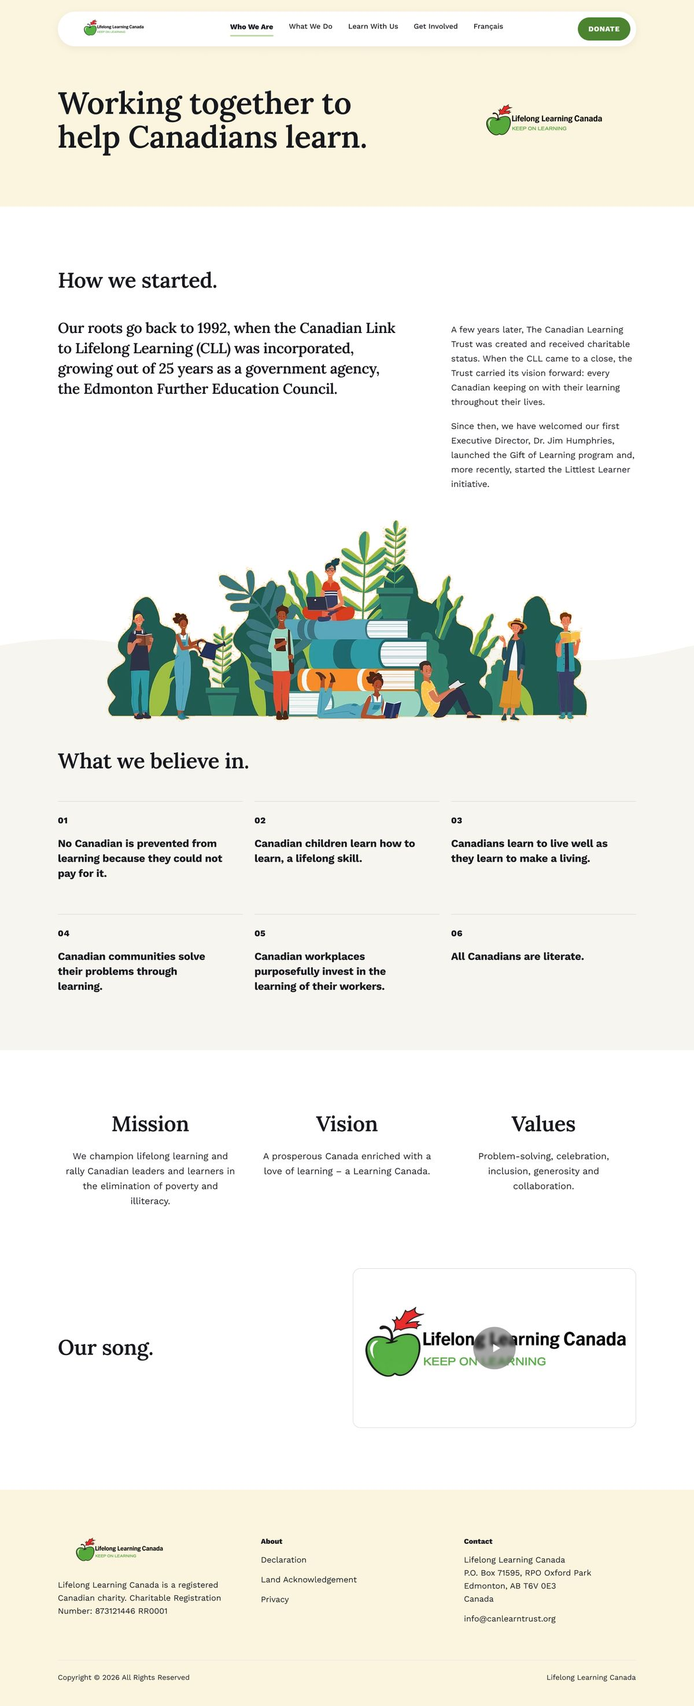
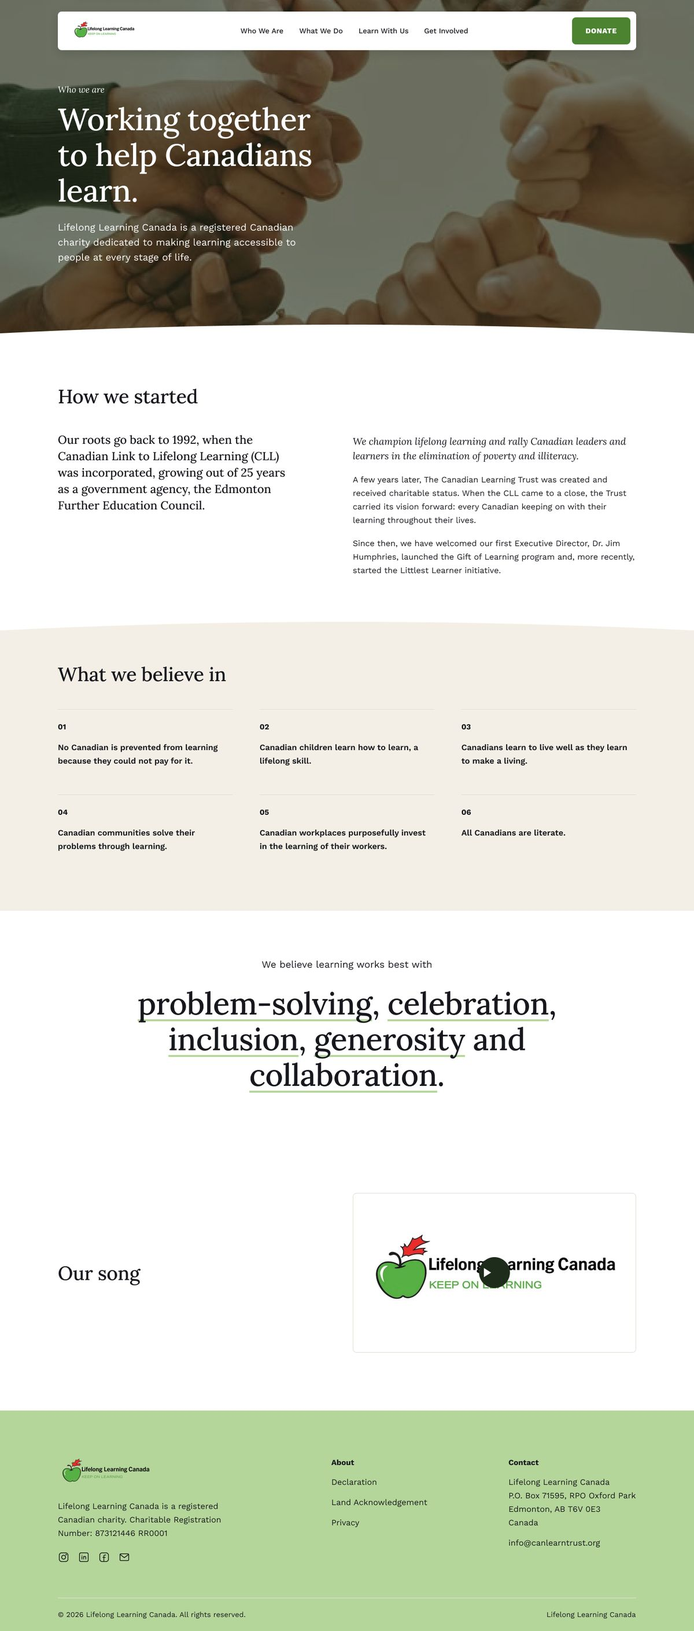
Lifelong and Scenté: new pages, sitemap, flows and phone covers
Lifelong Learning: all seven pages from the current Figma (Donate, Gift of
Learning, Board & Staff, email), personas, sitemap, user flows, empty state,
new colours, feedback and validation. Scenté: product page, personas,
moodboard, sitemap and user flows. New iPhone covers for both cards.

Claude-Session: https://claude.ai/code/session_01KAYDTWEdfNKoZqiUryzZVw

diff --git a/projects/lifelong-learning.html b/projects/lifelong-learning.html
@@ -405,20 +405,24 @@
     <section class="ll-hero">
       <div class="ll-hero__left">
         <h1 class="ll-hero__title">Lifelong Learning Canada</h1>
-        <p class="ll-hero__desc">I volunteer with Lifelong Learning Canada, a small Canadian charity, and redesigned their website: the homepage, the About Us page and the Resource Hub.</p>
+        <p class="ll-hero__desc">Lifelong Learning Canada is a nonprofit that helps people fund any kind of learning they need, at any level and at any stage of life. I volunteer with them, and I am redesigning the whole website and building it in WordPress with Elementor.</p>
       </div>
       <div class="ll-hero__right">
         <div class="ll-meta-group">
-          <span class="ll-meta-label">Project Scope</span>
-          <span class="ll-meta-val">UI/UX Design · Web Design · Design System</span>
+          <span class="ll-meta-label">Role</span>
+          <span class="ll-meta-val">Volunteer Web Designer &amp; Developer</span>
         </div>
         <div class="ll-meta-group">
-          <span class="ll-meta-label">Skills</span>
-          <span class="ll-meta-val">Figma · Design Systems · Web Design</span>
+          <span class="ll-meta-label">Timeline</span>
+          <span class="ll-meta-val">Aug 2026 to present</span>
         </div>
         <div class="ll-meta-group">
           <span class="ll-meta-label">Pages</span>
-          <span class="ll-meta-val">Landing · About Us · Resource Hub</span>
+          <span class="ll-meta-val">Landing · Donate · About Us · Gift of Learning · Resource Hub · Board &amp; Staff · Thank you email</span>
+        </div>
+        <div class="ll-meta-group">
+          <span class="ll-meta-label">Tools</span>
+          <span class="ll-meta-val">Figma · WordPress · Elementor · Claude · ChatGPT</span>
         </div>
         <a href="https://www.figma.com/design/nwnEfswx4xMTpzGlQBsQtA/Lifelong-Learning-Canada" target="_blank" class="ll-btn">View Figma File</a>
       </div>
@@ -427,12 +431,12 @@
     <!-- ─── Intro split ─── -->
     <div class="ll-goal-split">
       <div class="ll-goal-split__visual">
-        <img src="lifelong-hero-after.png" alt="Lifelong Learning Canada redesigned homepage" />
+        <img src="lifelong-hero-new.jpg" alt="Lifelong Learning Canada redesigned homepage" />
       </div>
       <div class="ll-goal-split__text">
         <span class="ll-goal-split__label">The Challenge</span>
-        <h2 class="ll-goal-split__heading">Give a small charity a website that actually feels like learning.</h2>
-        <p class="ll-goal-split__body">The old site didn't have a real visual identity, and nothing on it looked like education. I wanted someone landing on the homepage to understand in a few seconds what the organization does and why it matters.</p>
+        <h2 class="ll-goal-split__heading">Give a small charity a website that people understand and trust.</h2>
+        <p class="ll-goal-split__body">All the content was already on lifelonglearn.ca, but it was hard to follow. My task was to reorganize that information, using only what the site already had, and to make it clear what Lifelong Learning Canada does and how they help people.</p>
       </div>
     </div>
 
@@ -441,30 +445,48 @@
       <div class="pf-wrap">
         <h2 class="project-section-title pf-title">The Context</h2>
         <div class="pf-lead">
-          <p>Lifelong Learning Canada has been around since 1992, but it's a small organization and that shows. There were almost no photos I could use, very little data about their impact, and no visual identity to build on. Even the logo, an apple, doesn't say much about education on its own.</p>
-          <p>So a lot of my work was figuring out how to make the site feel like learning without making anything up. That's where the illustrations came in: people of different ages reading and studying together, which says more than the apple ever could.</p>
-          <p>I also changed how the site talks. Instead of opening with "registered charity" or "we help pay for your education", the text starts from what they believe: learning belongs to everyone, at every age.</p>
+          <p>Lifelong Learning Canada has been around since 1992, but it's a small organization and that shows. They had few photos of their activities and almost no numbers, like how many people they helped. That was hard, because photos and data are what create a connection with the person on the other side, even to make a donation.</p>
+          <p>The logo is an apple in a strong green, and too much green can feel more like nature than learning. So a lot of my work was making the site feel like learning, without making anything up.</p>
         </div>
       </div>
     </section>
 
-    <!-- ─── What I changed ─── -->
+    <!-- ─── Who it's for ─── -->
     <section class="pf-section">
       <div class="pf-wrap">
-        <h2 class="project-section-title pf-title">What I Changed</h2>
+        <h2 class="project-section-title pf-title">Who It's For</h2>
+        <div class="pf-lead"><p>I created two personas, based on the two main reasons people visit the website. They helped me decide what each page needed to say, and what each person should see first.</p></div>
         <div class="pf-cards">
           <div class="pf-card">
-            <span class="pf-card__label">Illustration instead of photos</span>
-            <p class="pf-card__body">Without good photos to work with, I used illustrations of people learning at different ages. They gave the site the education feeling the logo couldn't.</p>
+            <span class="pf-card__label">Maria, the learner</span>
+            <p class="pf-card__body">“I know what I want to study. I just don’t know how I’d pay for the books and fees.” She needs to see who Gift of Learning is for, the next step in plain language, and stories of people like her.</p>
           </div>
           <div class="pf-card">
-            <span class="pf-card__label">Real people, not numbers</span>
-            <p class="pf-card__body">There wasn't much data to show, so I put real learners up front, like Cybell, who moved across the country to study Marine Engineering.</p>
+            <span class="pf-card__label">David, the donor</span>
+            <p class="pf-card__body">“Show me it’s a real charity and that the money reaches someone. Then I’ll give.” He needs the charity number, the campaign progress and real learner stories before he gives.</p>
           </div>
-          <div class="pf-card">
-            <span class="pf-card__label">Warm and simple</span>
-            <p class="pf-card__body">I tried a lot of palettes and font pairs before landing on butter yellow and soft grey, with Lora and Work Sans. Black text, one green for buttons, almost no decoration.</p>
-          </div>
+        </div>
+      </div>
+    </section>
+
+    <!-- ─── Sitemap ─── -->
+    <section class="pf-section">
+      <div class="pf-wrap">
+        <h2 class="project-section-title pf-title">Sitemap</h2>
+        <div class="pf-lead"><p>I mapped every page before designing any screen. I kept the four menus from the live site, so people who already use it still find everything. The Donate page is new: before, the button went straight to Zeffy.</p></div>
+        <div class="pf-stage pf-stage--pad" style="--stage:#f4efe6">
+          <div class="pf-browser"><div class="pf-browser__view"><img class="pf-zoom" src="lifelong-sitemap.png" alt="Sitemap of the Lifelong Learning Canada website" loading="lazy" /></div></div>
+        </div>
+      </div>
+    </section>
+
+    <!-- ─── User flows ─── -->
+    <section class="pf-section">
+      <div class="pf-wrap">
+        <h2 class="project-section-title pf-title">User Flows</h2>
+        <div class="pf-lead"><p>For a charity, the “purchase” is a donation or a request for support. I mapped each step Maria and David take, where they could give up, and the design answer for each risk.</p></div>
+        <div class="pf-stage pf-stage--pad" style="--stage:#ececec">
+          <div class="pf-browser"><div class="pf-browser__view"><img class="pf-zoom" src="lifelong-flows.png" alt="User flows for Maria, the learner, and David, the donor" loading="lazy" /></div></div>
         </div>
       </div>
     </section>
@@ -473,7 +495,7 @@
     <section class="pf-section">
       <div class="pf-wrap">
         <h2 class="project-section-title pf-title">Wireframes</h2>
-        <div class="pf-lead"><p>Before adding color and images, I laid out each page in grey to get the order of the content right: what someone needs to see first, and where each page leads next.</p></div>
+        <div class="pf-lead"><p>Before any colour or photo, I planned the pages in grey, using the real content from the site, to get the order right: what someone needs to see first, and where each page leads next.</p></div>
         <div class="pf-stage pf-stage--pad" style="--stage:#ececec">
           <div class="pf-grid3">
             <div class="pf-browser"><div class="pf-browser__bar"><span class="pf-browser__dot"></span><span class="pf-browser__dot"></span><span class="pf-browser__dot"></span></div><div class="pf-browser__view pf-browser__view--crop"><img class="pf-zoom" src="lifelong-wire-home.jpg" alt="Wireframe of the homepage" loading="lazy" /></div></div>
@@ -488,19 +510,31 @@
     <section class="pf-section">
       <div class="pf-wrap">
         <h2 class="project-section-title pf-title">The Pages</h2>
-        <div class="pf-lead"><p>The homepage, the About Us page and the Resource Hub, where people can search learning programs across Canada. Scroll inside the window to see each page.</p></div>
-        <div class="pf-stage" style="--stage:#f6efd9">
+        <div class="pf-lead">
+          <p>The landing page now explains who Lifelong Learning Canada is, what they do and how they help, before asking anyone to donate. The new Donate page shows the campaign progress, a real learner story and answers about tax receipts. Gift of Learning is written for Maria, and the Resource Hub turns a long list of programs into a search with filters.</p>
+          <p>Scroll inside the window to see each page.</p>
+        </div>
+        <div class="pf-stage" style="--stage:#f4efe6">
           <div class="pf-browser" data-tabs>
             <div class="pf-browser__bar">
               <span class="pf-browser__dot"></span><span class="pf-browser__dot"></span><span class="pf-browser__dot"></span>
               <div class="pf-browser__tabs" role="tablist">
-                <button class="pf-browser__tab is-active" data-src="lifelong-page-home.jpg" data-alt="Lifelong Learning Canada homepage">Home</button>
-                <button class="pf-browser__tab" data-src="lifelong-page-about.jpg" data-alt="Lifelong Learning Canada About Us page">About Us</button>
-                <button class="pf-browser__tab" data-src="lifelong-page-hub.jpg" data-alt="Lifelong Learning Canada Resource Hub">Resource Hub</button>
+                <button class="pf-browser__tab is-active" data-src="lifelong-page-home.jpg" data-alt="Lifelong Learning Canada homepage">Home</button><button class="pf-browser__tab" data-src="lifelong-page-donate.jpg" data-alt="Donate page">Donate</button><button class="pf-browser__tab" data-src="lifelong-page-about.jpg" data-alt="About Us page">About Us</button><button class="pf-browser__tab" data-src="lifelong-page-gift.jpg" data-alt="Gift of Learning page">Gift of Learning</button><button class="pf-browser__tab" data-src="lifelong-page-hub.jpg" data-alt="Resource Hub with the province filter open">Resource Hub</button><button class="pf-browser__tab" data-src="lifelong-page-board.jpg" data-alt="Board and Staff page">Board &amp; Staff</button>
               </div>
             </div>
             <div class="pf-browser__view pf-browser__view--scroll"><img src="lifelong-page-home.jpg" alt="Lifelong Learning Canada homepage" /></div>
           </div>
+        </div>
+      </div>
+    </section>
+
+    <!-- ─── Empty state ─── -->
+    <section class="pf-section">
+      <div class="pf-wrap">
+        <h2 class="project-section-title pf-title">When Nothing Matches</h2>
+        <div class="pf-lead"><p>Filters can return zero results. Instead of an empty table, the page says what happened and gives one way out: clear the filters. Photos show real people. Illustrations are for tools and moments like this one.</p></div>
+        <div class="pf-stage pf-stage--pad" style="--stage:#ececec">
+          <div class="pf-browser"><div class="pf-browser__view"><img class="pf-zoom" src="lifelong-empty-state.jpg" alt="Resource Hub with 0 resources found" loading="lazy" /></div></div>
         </div>
       </div>
     </section>
@@ -520,13 +554,56 @@
       </div>
     </section>
 
+    <!-- ─── Thank you email ─── -->
+    <section class="pf-section">
+      <div class="pf-wrap">
+        <h2 class="project-section-title pf-title">After the Donation</h2>
+        <div class="pf-lead"><p>After giving on Zeffy, the donor gets a thank you email. It came from one question: how can people who donate feel closer to the organization? The email confirms the tax receipt, shares real learner stories and shows other ways to help.</p></div>
+        <div class="pf-stage pf-stage--pad" style="--stage:#f4efe6">
+          <div class="pf-browser" style="max-width:600px;margin:0 auto"><div class="pf-browser__view pf-browser__view--scroll"><img src="lifelong-page-email.jpg" alt="Thank you email" /></div></div>
+        </div>
+      </div>
+    </section>
+
     <!-- ─── Design system ─── -->
     <section class="pf-section">
       <div class="pf-wrap">
         <h2 class="project-section-title pf-title">The Design System</h2>
-        <div class="pf-lead"><p>Colors, text styles, buttons, the header, the footer, cards and filters are all saved in Figma. If I change one, it changes on every page, desktop and mobile.</p></div>
-        <div class="pf-stage pf-stage--pad" style="--stage:#f6efd9">
-          <div class="pf-browser"><div class="pf-browser__view"><img class="pf-zoom" src="lifelong-design-system.png" alt="Lifelong Learning Canada design system: colors, typography and components" /></div></div>
+        <div class="pf-lead"><p>The site had many pages, but nothing kept them consistent. Colours, text styles, buttons, the header, the footer, cards and filters are all saved in Figma. A warm oat colour balances the green: the light logo green is only a background, and the strong green is only for Donate.</p></div>
+        <div class="pf-stage pf-stage--pad" style="--stage:#f4efe6">
+          <div class="pf-browser"><div class="pf-browser__view"><img class="pf-zoom" src="lifelong-colors.png" alt="Lifelong Learning Canada colour tokens" loading="lazy" /></div></div>
+        </div>
+      </div>
+    </section>
+
+    <!-- ─── Feedback ─── -->
+    <section class="pf-section">
+      <div class="pf-wrap">
+        <h2 class="project-section-title pf-title">Feedback</h2>
+        <div class="pf-cards">
+          <div class="pf-card">
+            <span class="pf-card__label">From the team</span>
+            <p class="pf-card__body">“The Gift of Learning page… that one was a disaster.” Early on, the team found it hard to read. I redesigned it with strong contrast, real learner photos and stories, and clear copy.</p>
+          </div>
+          <div class="pf-card">
+            <span class="pf-card__label">From a senior designer</span>
+            <p class="pf-card__body">“The site tells the story well, but it doesn’t connect that story to donating.” Now a real learner story sits next to the campaign progress and the donate button.</p>
+          </div>
+          <div class="pf-card">
+            <span class="pf-card__label">Colours and consistency</span>
+            <p class="pf-card__body">Some pages felt like a different site. I simplified the greens and gave every page the same kind of hero.</p>
+          </div>
+        </div>
+      </div>
+    </section>
+
+    <!-- ─── Validation ─── -->
+    <section class="pf-section">
+      <div class="pf-wrap">
+        <h2 class="project-section-title pf-title">How I Validate It</h2>
+        <div class="pf-lead">
+          <p><strong>Done:</strong> the Lifelong Learning Canada team reviewed each page, and a senior designer reviewed the site. Each step of Maria’s and David’s path has a risk and a design answer.</p>
+          <p><strong>Next:</strong> a short test with five people using the prototype: make a donation, find a program in Alberta, and check if the donation gives a tax receipt. After launch, I want to track how many people click Donate and finish on Zeffy, how many Hub searches return no results, and clicks in the thank you email.</p>
         </div>
       </div>
     </section>
@@ -556,7 +633,7 @@
     <section class="pf-final">
       <div class="pf-wrap">
         <h2 class="project-section-title pf-title">See the Full Design</h2>
-        <p>All the pages, the mobile versions, the wireframes and the design system are in Figma.</p>
+        <p>All the pages, the mobile versions, the sitemap, the user flows, the wireframes and the design system are in Figma.</p>
         <div class="pf-btns"><a href="https://www.figma.com/design/nwnEfswx4xMTpzGlQBsQtA/Lifelong-Learning-Canada" target="_blank" class="pf-btn">View Figma File</a></div>
       </div>
     </section>

diff --git a/projects/scente.html b/projects/scente.html
@@ -420,7 +420,7 @@
         </div>
         <div class="sc-meta-group">
           <span class="sc-meta-label">Pages</span>
-          <span class="sc-meta-val">Home · About · Shop · Contact · Cart</span>
+          <span class="sc-meta-val">Home · About · Shop · Product · Contact · Cart</span>
         </div>
         <a href="https://www.figma.com/design/tzMHCASsXgZLubw8n10tKq/Scent%C3%A9" target="_blank" class="sc-btn">View Figma File</a>
       </div>
@@ -445,7 +445,50 @@
         <div class="pf-lead">
           <p>Scenté isn't a real company. I invented it so I could design a store from the brand up, without anyone telling me what it should look like. The idea was two friends who started making candles together, and that became the About page.</p>
           <p>Since the first collection is for autumn, the colors came from the season: deep brown, warm cream, a rusty red for the headings and a soft butter yellow for the buttons. For the type I mixed an elegant serif with a monospace, so it feels a little handmade, like a label on a jar.</p>
-          <p>My first version was a single landing page I coded myself. Later I came back to it and designed the rest of the store: About, Shop, Contact and Cart, on desktop and mobile.</p>
+          <p>My first version was a single landing page I coded myself. Later I came back to it and designed the rest of the store: About, Shop, the product page, Contact and Cart, on desktop and mobile.</p>
+        </div>
+      </div>
+    </section>
+
+    <!-- ─── Who it's for ─── -->
+    <section class="pf-section">
+      <div class="pf-wrap">
+        <h2 class="project-section-title pf-title">Who It's For</h2>
+        <div class="pf-lead"><p>I created two personas, based on the two main reasons people buy candles. Both have the same problem: you can’t smell a candle through a screen.</p></div>
+        <div class="pf-cards">
+          <div class="pf-card">
+            <span class="pf-card__label">Chloé, the gift giver</span>
+            <p class="pf-card__body">“I want a gift that feels thoughtful, but I can’t smell it through the screen.” She needs scents named after real ingredients, clear prices and delivery times before checkout.</p>
+          </div>
+          <div class="pf-card">
+            <span class="pf-card__label">Priya, the evening ritual</span>
+            <p class="pf-card__body">“After a long shift I light a candle to switch off. I want to know what I’m breathing in.” She needs ingredients in plain words, care tips and the story of who makes the candles.</p>
+          </div>
+        </div>
+      </div>
+    </section>
+
+    <!-- ─── Moodboard ─── -->
+    <section class="pf-section">
+      <div class="pf-wrap">
+        <h2 class="project-section-title pf-title">Moodboard and Identity</h2>
+        <div class="pf-lead"><p>Before designing, I collected references to find the mood of the brand: autumn light, real ingredients and amber glass. The palette, the photos and the type of the store all came from this board.</p></div>
+        <div class="pf-stage pf-stage--pad" style="--stage:#f3e6cf">
+          <div class="pf-browser"><div class="pf-browser__view"><img class="pf-zoom" src="scente-moodboard.jpg" alt="Scenté moodboard, palette and type" loading="lazy" /></div></div>
+        </div>
+      </div>
+    </section>
+
+    <!-- ─── Sitemap and flows ─── -->
+    <section class="pf-section">
+      <div class="pf-wrap">
+        <h2 class="project-section-title pf-title">Sitemap and User Flows</h2>
+        <div class="pf-lead"><p>The product page is new: it's where people decide to buy. Chloé decides by the scent notes and checks delivery times in the cart. Priya reads the ingredients on the product page and confirms them in the FAQ.</p></div>
+        <div class="pf-stage pf-stage--pad" style="--stage:#ece3d3">
+          <div class="pf-grid2" style="display:grid;gap:24px">
+            <div class="pf-browser"><div class="pf-browser__view"><img class="pf-zoom" src="scente-sitemap.png" alt="Scenté sitemap" loading="lazy" /></div></div>
+            <div class="pf-browser"><div class="pf-browser__view"><img class="pf-zoom" src="scente-flows.png" alt="Scenté user flows for Chloé and Priya" loading="lazy" /></div></div>
+          </div>
         </div>
       </div>
     </section>
@@ -464,7 +507,7 @@
             <p class="pf-card__body">Removing an item shows a small Undo, the order summary stays in view, and shipping and returns info sit right under the checkout button.</p>
           </div>
           <div class="pf-card">
-            <span class="pf-card__label">One store, five pages</span>
+            <span class="pf-card__label">One store, six pages</span>
             <p class="pf-card__body">The same header, footer, buttons and spacing on every page, so going from Home to Cart feels like the same place.</p>
           </div>
         </div>
@@ -490,7 +533,7 @@
     <section class="pf-section">
       <div class="pf-wrap">
         <h2 class="project-section-title pf-title">The Store</h2>
-        <div class="pf-lead"><p>Five pages, from the autumn collection on the home page to the cart. Scroll inside the window to see each page.</p></div>
+        <div class="pf-lead"><p>Six pages, from the autumn collection on the home page to the cart. On the product page, big photos show the candle next to its ingredients, and the price, Add to cart and Buy now are all at the top. Scroll inside the window to see each page.</p></div>
         <div class="pf-stage" style="--stage:#f3e6cf">
           <div class="pf-browser" data-tabs>
             <div class="pf-browser__bar">
@@ -499,6 +542,7 @@
                 <button class="pf-browser__tab is-active" data-src="scente-page-home.jpg" data-alt="Scenté Home page">Home</button>
                 <button class="pf-browser__tab" data-src="scente-page-about.jpg" data-alt="Scenté About page">About</button>
                 <button class="pf-browser__tab" data-src="scente-page-shop.jpg" data-alt="Scenté Shop page">Shop</button>
+                <button class="pf-browser__tab" data-src="scente-page-product.jpg" data-alt="Scenté product page, Pumpkin Spice">Product</button>
                 <button class="pf-browser__tab" data-src="scente-page-contact.jpg" data-alt="Scenté Contact page">Contact</button>
                 <button class="pf-browser__tab" data-src="scente-page-cart.jpg" data-alt="Scenté Cart page">Cart</button>
               </div>
@@ -517,7 +561,7 @@
         <div class="pf-stage pf-stage--pad" style="--stage:#ece3d3">
           <div class="pf-phones">
             <div class="pf-phone"><div class="pf-phone__screen"><img src="scente-m-home.jpg" alt="Scenté home page on mobile" /></div></div>
-            <div class="pf-phone"><div class="pf-phone__screen"><img src="scente-m-shop.jpg" alt="Scenté shop on mobile" /></div></div>
+            <div class="pf-phone"><div class="pf-phone__screen"><img src="scente-m-product.jpg" alt="Scenté product page on mobile" /></div></div>
             <div class="pf-phone"><div class="pf-phone__screen"><img src="scente-m-cart.jpg" alt="Scenté cart on mobile" /></div></div>
           </div>
         </div>

diff --git a/index.html b/index.html
@@ -176,7 +176,7 @@
           <li>
             <article class="project-card">
               <a href="projects/scente.html" class="project-card__img-wrap">
-                <img src="Scente.png" alt="Scenté" />
+                <img src="assets/covers/scente-iphone.jpg" alt="Scenté on two iPhones: the home page and the Pumpkin Spice product page" />
               </a>
               <div class="project-card__heading">
                 <span class="project-card__tag">Responsive Web Design</span>
@@ -193,13 +193,13 @@
           <li>
             <article class="project-card">
               <a href="projects/lifelong-learning.html" class="project-card__img-wrap">
-                <img src="projects/lifelong-hero-after.png" alt="Lifelong Learning Canada" />
+                <img src="assets/covers/lifelong-iphone.jpg" alt="Lifelong Learning Canada on two iPhones: the home page and the Resource Hub" />
               </a>
               <div class="project-card__heading">
                 <span class="project-card__tag">UI/UX Design</span>
                 <a href="projects/lifelong-learning.html" class="project-card__title-link"><h3 class="project-card__title">Lifelong Learning Canada</h3></a>
               </div>
-              <p class="project-card__desc">A website redesign for Lifelong Learning Canada, a small charity I volunteer with: the homepage, About Us and the Resource Hub, designed in Figma.</p>
+              <p class="project-card__desc">A website redesign for Lifelong Learning Canada, a small charity I volunteer with: seven pages, from the homepage to the Donate page and a thank you email, designed in Figma.</p>
               <a href="https://www.figma.com/design/nwnEfswx4xMTpzGlQBsQtA/Lifelong-Learning-Canada" target="_blank" class="project-card__github">
                 View on Figma
               </a>
